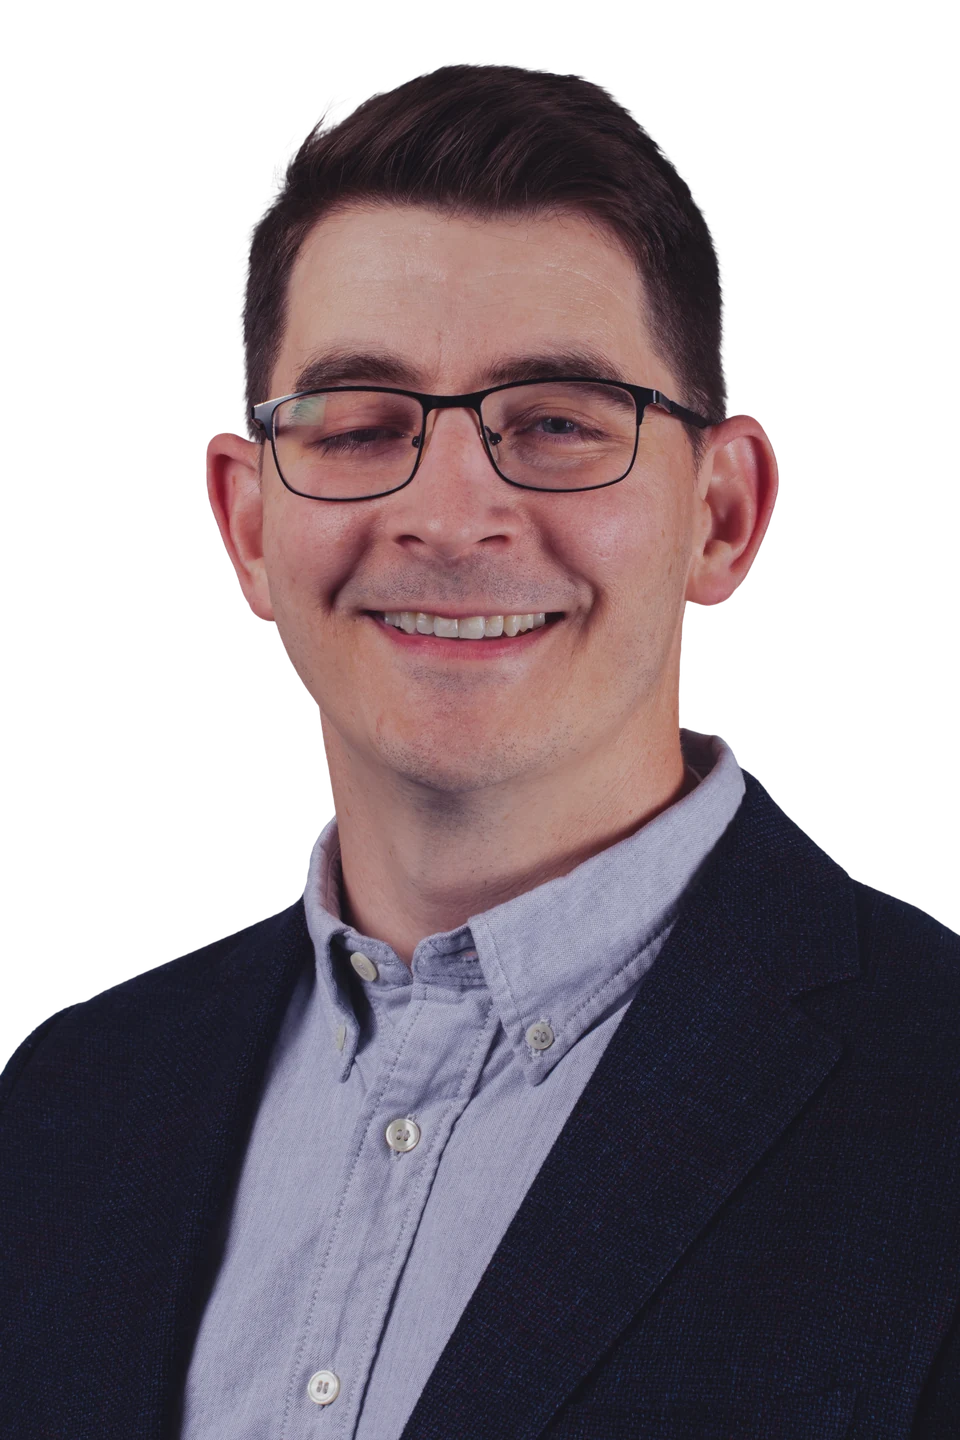
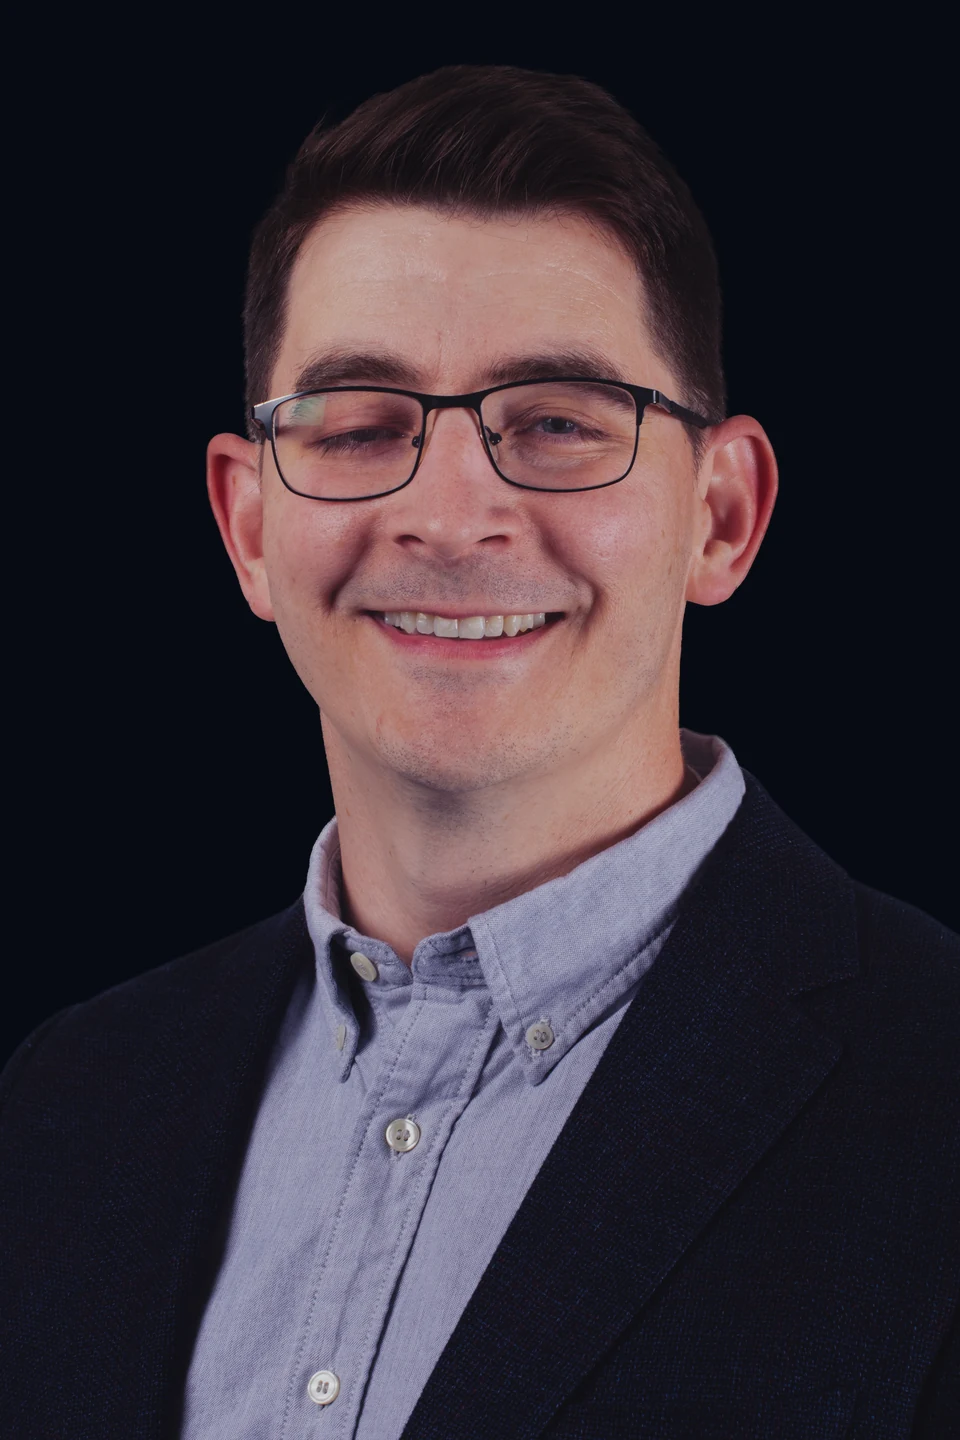
New profile photo, full cyan border outline on hero image

diff --git a/index.html b/index.html
@@ -109,29 +109,8 @@
       object-position: top center;
     }
 
-    /* animated corner brackets */
-    .hero-photo::before,
-    .hero-photo::after {
-      content: '';
-      position: absolute;
-      width: 28px; height: 28px;
-      border-color: var(--cyan);
-      border-style: solid;
-      opacity: 0.7;
-      animation: bracketPulse 3s ease-in-out infinite;
-    }
-    .hero-photo::before {
-      top: -6px; left: -6px;
-      border-width: 2px 0 0 2px;
-    }
-    .hero-photo::after {
-      bottom: -6px; right: -6px;
-      border-width: 0 2px 2px 0;
-      animation-delay: 1.5s;
-    }
-    @keyframes bracketPulse {
-      0%,100% { opacity: 0.5; }
-      50% { opacity: 1; }
+    .hero-photo {
+      outline: 1px solid rgba(99,232,232,0.55);
     }
 
     .hero-text { flex: 1; }
